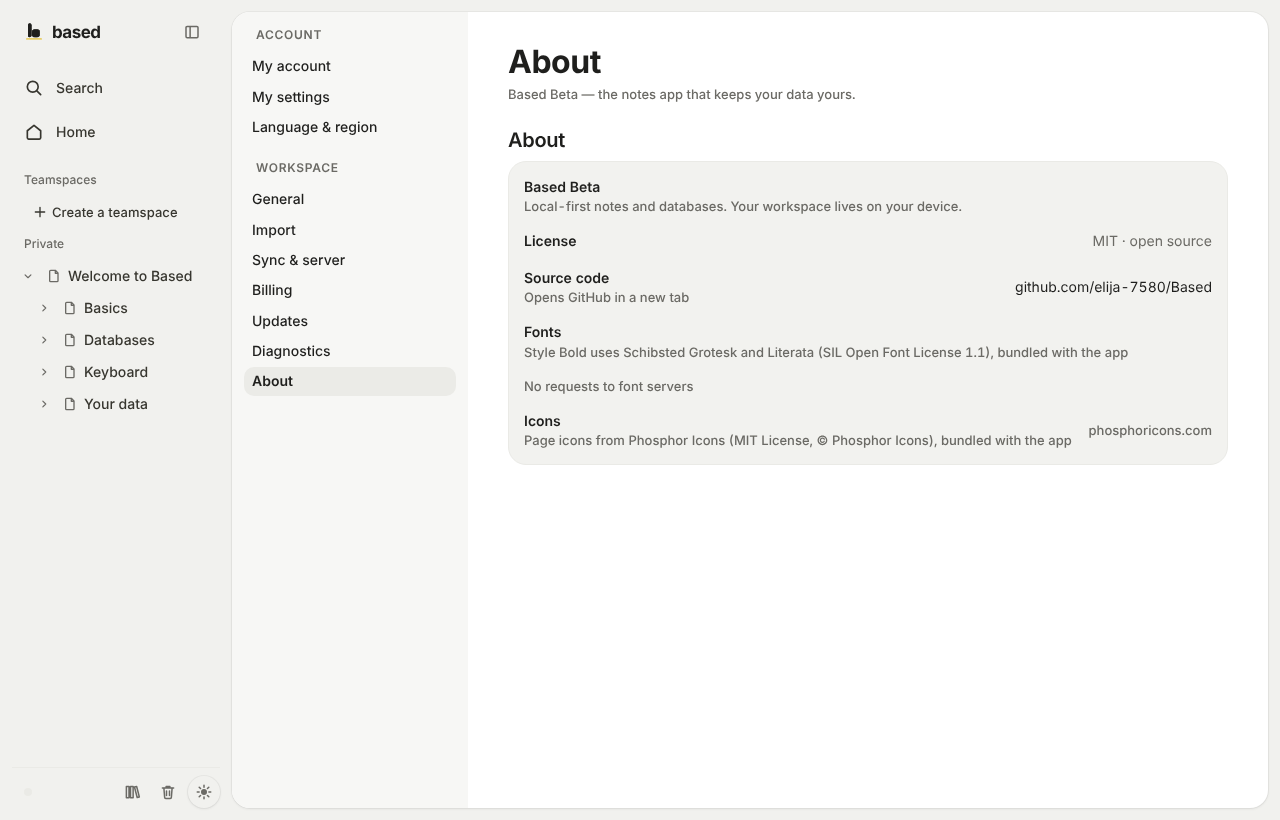
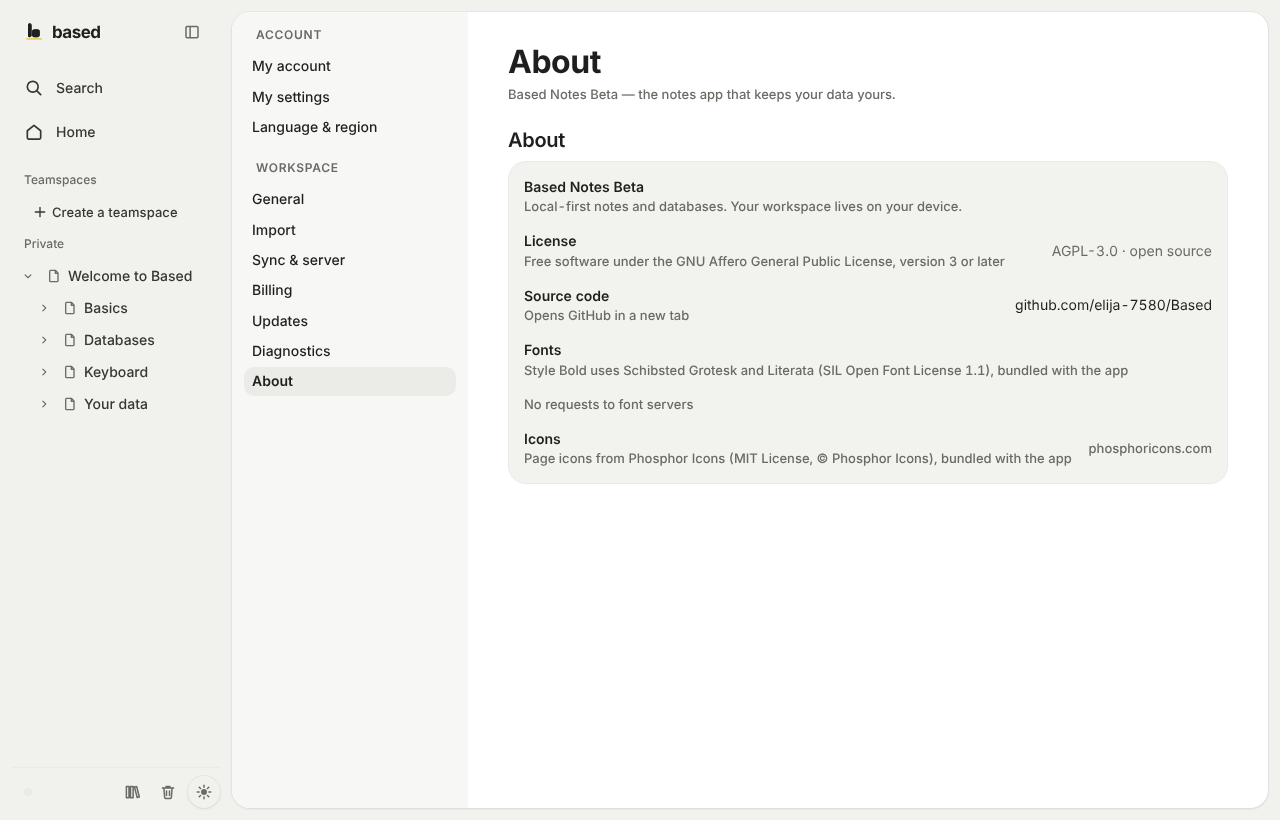
BSD-514: App heißt Based Notes – Beta-App, DMG und Über-Seite zeigen „Based Notes Beta“
Nur sichtbare Namen; Kennungen bleiben, damit Tester Daten und Updates behalten:
- tauri.beta.conf.json: productName und Fenstertitel „Based Notes Beta“. Bundle-ID, Updater-Endpunkt
  (beta-latest/latest.json) unverändert.
- apps/web/src/shell/beta.ts: APP_NAME/productName() → „Based Notes Beta“ (Über-Seite, Problem-melden-Mail);
  neue Seitenfenster nehmen productName() statt fest „Based Next“.
- ci/github-actions-desktop-beta.yml (Vorlage, .github/ unberührt): APP_NAME, DMG Based-Notes-Beta.dmg, Update-Paket
  Based-Notes-Beta.app.tar.gz, Titel; die DMG geht zusätzlich als Based-Beta.dmg nach beta-latest (alte Links).
- Nicht geändert: appName in packages/core/src/desktop-channel.ts – Kennung (Owner in der Discovery-Datei für
  replaceStaleLocal, Kennzeichen des CLI-Starters); umbenannt hielte die neue App ihren alten Server für fremd und
  based-beta ließe sich nicht neu installieren. Ports, Ordner (Based Beta Backups, iCloud „Based Beta“), based-beta.
- Website-Download und README: Texte „Based Notes Beta“, Link bleibt auf beta-latest/Based-Beta.dmg (den gibt es
  schon; Based-Notes-Beta.dmg erst nach dem ersten Lauf des neuen Workflows).
- docs/beta/README.md und RELEASE_NOTES.md (Zeile im Update-Dialog), Tests: config.test.mjs, beta.test.ts,
  site.test.mjs, beta-build.spec.ts (dazu „New board“ im ⌘N-Menü, auf beta seit be879bf0 – Spec war dort rot).
Prüfung: run-ts --fast grün; beta-build.spec (BASED_CHANNEL=beta) Chromium + WebKit grün; Fotos About hell/dunkel.
[…]

diff --git a/apps/web/e2e/beta-build.spec.ts b/apps/web/e2e/beta-build.spec.ts
@@ -102,9 +102,9 @@ for (const theme of ["light", "dark"] as const) {
       await expect(page.getByTestId("settings-section-start-page")).toContainText("Welcome to Based");
       await clean(page, "My settings");
       await shoot(page, "settings");
-      // BSD-485: About heißt „Based Beta“, ohne Agenten
+      // BSD-485/514: About heißt „Based Notes Beta“, ohne Agenten
       await nav.getByRole("button", { name: "About", exact: true }).click();
-      await expect(settings).toContainText("Based Beta — the notes app that keeps your data yours.");
+      await expect(settings).toContainText("Based Notes Beta — the notes app that keeps your data yours.");
       await expect(settings).not.toContainText(/Based Next|agent/i);
       await clean(page, "About");
       await shoot(page, "settings-about");
@@ -119,7 +119,7 @@ for (const theme of ["light", "dark"] as const) {
       await clean(page, "Diagnostics");
       await shoot(page, "settings-diagnostics");
 
-      // Library ohne Graph, mit Meetings; ⌘N mit Meeting notes, ohne AI-Chat, mit den Vorlagen
+      // Library ohne Graph, mit Meetings; ⌘N mit Meeting notes und Board (seit be879bf0 auf beta), ohne AI-Chat, mit den Vorlagen
       await page.goto("/#library");
       await expect(page.getByRole("heading", { name: "Library" })).toBeVisible();
       await expect(page.getByText(/^Loading/)).toHaveCount(0, { timeout: 15_000 });
@@ -129,7 +129,7 @@ for (const theme of ["light", "dark"] as const) {
       await shoot(page, "library");
       await page.keyboard.press("ControlOrMeta+n");
       const palette = page.getByTestId("new-palette");
-      await expect(palette.getByRole("option")).toHaveText([/New page/, /meeting notes/i, /New database/, /Import/, /Tasks template/, /Notes template/, /Journal template/, /Wiki template/]);
+      await expect(palette.getByRole("option")).toHaveText([/New page/, /meeting notes/i, /New database/, /Import/, /New board/, /Tasks template/, /Notes template/, /Journal template/, /Wiki template/]);
       await page.keyboard.type("tasks");
       await page.keyboard.press("Enter");
       await expect(page.locator(".shell-database.full")).toBeVisible();
@@ -142,7 +142,7 @@ for (const theme of ["light", "dark"] as const) {
 }
 
 // BSD-467: ⇧⌘B → Speichern → der Dialog nennt hello@basednotes.app und der Knopf „Email report“ öffnet eine Mail mit
-// „Based Beta“ und Kanal beta – ohne Seiteninhalt und ohne die Notiz.
+// „Based Notes Beta“ (BSD-514) und Kanal beta – ohne Seiteninhalt und ohne die Notiz.
 test("Beta-Build: Problem melden führt zur Mail an hello@basednotes.app", async ({ playwright, browserName, baseURL }) => {
   test.setTimeout(90_000);
   const { page, close } = await fresh(playwright, browserName, baseURL!, "light");
@@ -161,7 +161,7 @@ test("Beta-Build: Problem melden führt zur Mail an hello@basednotes.app", async
     await expect(box).toContainText("Send it to hello@basednotes.app");
     await expect(box.getByRole("button", { name: "Email report" })).toBeVisible();
     const text = decodeURIComponent((await box.getAttribute("data-mailto"))!);
-    expect(text.startsWith("mailto:hello@basednotes.app?subject=Based Beta ")).toBe(true);
+    expect(text.startsWith("mailto:hello@basednotes.app?subject=Based Notes Beta ")).toBe(true);
     expect(text).toContain("Channel: beta");
     for (const leak of ["Secret beta page text", "My private note"]) expect(text).not.toContain(leak);
     await clean(page, "Report saved");

diff --git a/apps/website/public/download/index.html b/apps/website/public/download/index.html
@@ -4,9 +4,9 @@
 <meta charset="utf-8">
 <meta name="viewport" content="width=device-width, initial-scale=1">
 <title>Download the Based Notes beta for Mac</title>
-<meta name="description" content="Download Based Beta for macOS, install it and send feedback.">
+<meta name="description" content="Download Based Notes Beta for macOS, install it and send feedback.">
 <meta property="og:title" content="Download the Based Notes beta for Mac">
-<meta property="og:description" content="Download Based Beta for macOS, install it and send feedback.">
+<meta property="og:description" content="Download Based Notes Beta for macOS, install it and send feedback.">
 <meta name="robots" content="noindex">
 <link rel="canonical" href="https://basednotes.app/download">
 <meta name="color-scheme" content="light">
@@ -41,16 +41,16 @@
 </nav>
 </header>
 <main class="legal wrap">
-<h1>Download the Based beta</h1>
+<h1>Download the Based Notes beta</h1>
 <p class="note">Thanks for testing Based. This is an early version: keep a copy of anything you can't afford to lose, and tell us what breaks.</p>
 
-<p><a class="btn" href="https://github.com/elija-7580/Based/releases/download/beta-latest/Based-Beta.dmg">Download Based Beta for Mac</a></p>
+<p><a class="btn" href="https://github.com/elija-7580/Based/releases/download/beta-latest/Based-Beta.dmg">Download Based Notes Beta for Mac</a></p>
 <p class="meta">macOS 13 or later · free during the beta · updates itself</p>
 
 <h2>Install</h2>
 <ul>
-<li>Open <strong>Based-Beta.dmg</strong> and drag <strong>Based Beta</strong> into Applications.</li>
-<li>Open Based Beta from Applications. If macOS asks before the first start, right-click the app, choose <strong>Open</strong> and confirm.</li>
+<li>Open the downloaded disk image (.dmg) and drag <strong>Based Notes Beta</strong> into Applications.</li>
+<li>Open Based Notes Beta from Applications. If macOS asks before the first start, right-click the app, choose <strong>Open</strong> and confirm.</li>
 <li>No account needed. Import from Notion on the welcome screen, or start empty.</li>
 </ul>
 

diff --git a/apps/web/src/desktop.ts b/apps/web/src/desktop.ts
@@ -6,7 +6,7 @@
 // Speicher: unverändert SQLite-WASM auf OPFS im Worker (siehe docs/desktop.md, „Speicher“).
 
 import { checkReleasesFallback, isMissingUpdateManifest, releaseLine } from "./shell/updateFallback.js";
-import { CHANNEL } from "./shell/beta.js";
+import { CHANNEL, productName } from "./shell/beta.js";
 import { autoUpdatePref } from "./shell/storage.js";
 import { closeTabAction } from "./shell/closeTab.js";
 import { askUser, showMessage } from "./shell/prompts.js";
@@ -34,7 +34,7 @@ export function applyDesktopShell(root: HTMLElement = document.documentElement) 
 
 let checking = false;
 
-/** Name und Version dieser App, wie sie im Bundle stehen („Based Next“ 0.1.155, „Based Beta“ 0.2.3). */
+/** Name und Version dieser App, wie sie im Bundle stehen („Based Next“ 0.1.155, „Based Notes Beta“ 0.2.5). */
 export interface AppIdentity { name: string; version: string }
 let identity: Promise<AppIdentity> | undefined;
 export function appIdentity(): Promise<AppIdentity> {
@@ -206,7 +206,7 @@ export async function openPageWindow(hash: string, title: string): Promise<void>
   const [{ WebviewWindow }, { LogicalPosition }] = await Promise.all([import("@tauri-apps/api/webviewWindow"), import("@tauri-apps/api/dpi")]);
   const label = "page-" + Date.now().toString(36) + Math.random().toString(36).slice(2, 6);
   new WebviewWindow(label, {
-    url, title: title || "Based Next", width: 1000, height: 760, minWidth: 600, minHeight: 400,
+    url, title: title || productName(), width: 1000, height: 760, minWidth: 600, minHeight: 400,
     titleBarStyle: "overlay", hiddenTitle: true, trafficLightPosition: new LogicalPosition(18, 22), dragDropEnabled: false,
   });
 }

diff --git a/apps/web/src/shell/beta.ts b/apps/web/src/shell/beta.ts
@@ -72,12 +72,16 @@ export function settingsPageVisible(id: string, channel: Channel = CHANNEL): boo
   return channel !== "beta" || !BETA_HIDDEN_SETTINGS.has(id);
 }
 
-/** Name der App im Kanal (Fenstertitel, Über-Seite, Problem melden). */
-export const APP_NAME = CHANNEL === "beta" ? "Based Beta" : "Based";
+/**
+ * Name der App im Kanal (Fenstertitel, Über-Seite, Problem melden). BSD-514: offizieller Name „Based Notes“, die
+ * Beta heißt sichtbar „Based Notes Beta“. Nur Anzeige – Kennungen (Bundle-ID, Ports, Discovery-Besitzer, Ordner,
+ * CLI `based-beta`) stehen in @based/core desktopPlaces und bleiben, damit Tester Daten und Updates behalten.
+ */
+export const APP_NAME = CHANNEL === "beta" ? "Based Notes Beta" : "Based";
 
-/** BSD-485: Produktname auf der Über-Seite – „Based Beta“ auf beta, sonst „Based Next“. */
+/** BSD-485/514: Produktname auf der Über-Seite – „Based Notes Beta“ auf beta, sonst „Based Next“. */
 export function productName(channel: Channel = CHANNEL): string {
-  return channel === "beta" ? "Based Beta" : "Based Next";
+  return channel === "beta" ? "Based Notes Beta" : "Based Next";
 }
 
 /** BSD-485: Kurzbeschreibung auf der Über-Seite – auf beta ohne Agenten (die gibt es dort nicht). */

diff --git a/apps/website/src/info/download.html b/apps/website/src/info/download.html
@@ -1,13 +1,13 @@
-<h1>Download the Based beta</h1>
+<h1>Download the Based Notes beta</h1>
 <p class="note">Thanks for testing Based. This is an early version: keep a copy of anything you can't afford to lose, and tell us what breaks.</p>
 
-<p><a class="btn" href="https://github.com/elija-7580/Based/releases/download/beta-latest/Based-Beta.dmg">Download Based Beta for Mac</a></p>
+<p><a class="btn" href="https://github.com/elija-7580/Based/releases/download/beta-latest/Based-Beta.dmg">Download Based Notes Beta for Mac</a></p>
 <p class="meta">macOS 13 or later · free during the beta · updates itself</p>
 
 <h2>Install</h2>
 <ul>
-<li>Open <strong>Based-Beta.dmg</strong> and drag <strong>Based Beta</strong> into Applications.</li>
-<li>Open Based Beta from Applications. If macOS asks before the first start, right-click the app, choose <strong>Open</strong> and confirm.</li>
+<li>Open the downloaded disk image (.dmg) and drag <strong>Based Notes Beta</strong> into Applications.</li>
+<li>Open Based Notes Beta from Applications. If macOS asks before the first start, right-click the app, choose <strong>Open</strong> and confirm.</li>
 <li>No account needed. Import from Notion on the welcome screen, or start empty.</li>
 </ul>
 

diff --git a/apps/web/src/shell/beta.test.ts b/apps/web/src/shell/beta.test.ts
@@ -127,8 +127,8 @@ describe("features.csv passt zum Beta-Gate", () => {
     for (const f of hidden) expect(rows.find((r) => r.feature === f)?.beta, f).not.toBe("beta");
   });
 
-  it("Über-Seite: beta heißt „Based Beta“ und nennt keine Agenten, dev bleibt „Based Next“ (BSD-485)", () => {
-    expect(productName("beta")).toBe("Based Beta");
+  it("Über-Seite: beta heißt „Based Notes Beta“ und nennt keine Agenten, dev bleibt „Based Next“ (BSD-485, BSD-514)", () => {
+    expect(productName("beta")).toBe("Based Notes Beta");
     expect(productBlurb("beta")).not.toMatch(/agent/i);
     expect(productName("dev")).toBe("Based Next");
     expect(productBlurb("dev")).toMatch(/agents/);

diff --git a/docs/beta/README.md b/docs/beta/README.md
@@ -1,17 +1,22 @@
-# Based Beta – guide for testers
+# Based Notes Beta – guide for testers
 
 Thanks for testing Based. Based is a workspace for pages and databases that keeps your data on your Mac.
 This beta is an early version: please keep a copy of anything you can't afford to lose, and tell us what breaks.
 
 ## Install
 
-1. Download **Based-Beta.dmg** from the link in your invitation.
-2. Open it and drag **Based Beta** into Applications.
-3. Open Based Beta from Applications.
+1. Download the disk image (**Based-Notes-Beta.dmg**, older links give **Based-Beta.dmg** – same app) from the
+   link in your invitation.
+2. Open it and drag **Based Notes Beta** into Applications.
+3. Open Based Notes Beta from Applications.
    - Until the app is signed by Apple, macOS asks before the first start: right-click the app → **Open** → **Open**.
 
-Based Beta needs macOS 13 or later and runs on Apple Silicon and Intel Macs. It installs next to other Based versions
+Based Notes Beta needs macOS 13 or later and runs on Apple Silicon and Intel Macs. It installs next to other Based versions
 and keeps its own data.
+
+Until 18 November 2026 the app was called **Based Beta**. If you installed it then, it updates itself and keeps your
+workspace, backups and settings; in Finder it may keep the old name `Based Beta.app`. Folders and the command line
+tool keep their names (`Based Beta Backups`, iCloud folder `Based Beta`, `based-beta`).
 
 ## First start
 
@@ -57,9 +62,9 @@ Other imports (Markdown, HTML, CSV, Obsidian, Evernote, Word, OPML) are in **Set
 - Either way, export anything important now and then (**•••** page menu → Export, or Settings → Import & export).
   For a complete copy choose **Export workspace… → Based archive**: it keeps everything and imports back as it
   was. HTML is for reading – imported again, databases come back as tables.
-- Based Beta and Based Next can be installed side by side. Each keeps its own workspace, local server (Beta: port
+- Based Notes Beta and Based Next can be installed side by side. Each keeps its own workspace, local server (Beta: port
   47822), backups folder and iCloud folder (`Based Beta`); the command line tool of the Beta is `based-beta`.
-- Before it installs an update, Based Beta saves a copy of your whole workspace (a Based archive with all files;
+- Before it installs an update, Based Notes Beta saves a copy of your whole workspace (a Based archive with all files;
   above 300 MB of files only pages and databases, as `.based.jsonl` – the files stay in the app) in
   `~/Library/Application Support/com.friedrich-ulrich.based.beta/pre-update` and keeps the last three. If that copy
   can't be saved, the update isn't installed. To go back, import the archive in **Settings → Import & export**.
@@ -67,8 +72,8 @@ Other imports (Markdown, HTML, CSV, Obsidian, Evernote, Word, OPML) are in **Set
 
 ## Updates
 
-Based Beta checks for updates on its own and asks before installing. You can also use
-**Based Beta → Check for Updates…**. You can turn automatic checks off in **Settings → Updates**.
+Based Notes Beta checks for updates on its own and asks before installing. You can also use
+**Based Notes Beta → Check for Updates…**. You can turn automatic checks off in **Settings → Updates**.
 
 ## Feedback and problems
 

diff --git a/docs/beta/RELEASE_NOTES.md b/docs/beta/RELEASE_NOTES.md
@@ -1,4 +1,4 @@
-# Based Beta – release notes
+# Based Notes Beta – release notes
 
 The build workflow puts the **top section** into the update dialog and the release. Keep it short: at most 8 lines,
 one line per point (no wrapped lines), each at most 110 characters – a test checks this
@@ -6,6 +6,7 @@ one line per point (no wrapped lines), each at most 110 characters – a test ch
 
 ## 0.2 – release candidate
 
+- Based Beta is now called Based Notes Beta; your workspace, backups and settings stay as they are
 - Meeting notes: type /meet to record, take timestamped notes and get a transcript made on your Mac
 - Start from a template: Tasks, Notes, Journal or Wiki
 - Video and audio blocks with their own controls
@@ -18,6 +19,8 @@ one line per point (no wrapped lines), each at most 110 characters – a test ch
 
 New since the first test build (0.2.2):
 
+- The app is now called **Based Notes Beta** (Based Notes is the official name). Bundle, data folder, backups
+  (`Based Beta Backups`), iCloud folder (`Based Beta`) and the `based-beta` command keep their names.
 - Meeting notes: type `/meet` to record a meeting, take notes with timestamps and get a transcript made on your Mac.
   Turn it on from the welcome screen or in Settings → Meeting notes (downloads a speech model once, 488 MB).
 - Start from a template on the welcome screen: Tasks, Notes, Journal or Wiki. **⌘N** offers them later, too.

diff --git a/README.md b/README.md
@@ -30,9 +30,9 @@ It's open source, built in Austria by one person and a night shift of agents, an
 
 <picture>
   <source media="(prefers-color-scheme: dark)" srcset="docs/readme/app-board-dark.png">
-  <img alt="Based Beta on the Mac: the Tasks database as a board" src="docs/readme/app-board-light.png">
+  <img alt="Based Notes Beta on the Mac: the Tasks database as a board" src="docs/readme/app-board-light.png">
 </picture>
-<p align="center"><sub>Based Beta on the Mac. A database as a board, pages in the sidebar.</sub></p>
+<p align="center"><sub>Based Notes Beta on the Mac. A database as a board, pages in the sidebar.</sub></p>
 
 ## Why Based
 
@@ -75,7 +75,7 @@ AI is off by default and the beta ships without it. Based is a complete workspac
 
 ## Download
 
-**Beta testers:** [Based-Beta.dmg](https://github.com/elija-7580/Based/releases/download/beta-latest/Based-Beta.dmg).
+**Beta testers:** [Based Notes Beta for Mac (DMG)](https://github.com/elija-7580/Based/releases/download/beta-latest/Based-Beta.dmg).
 Join the waitlist on [basednotes.app](https://basednotes.app) to get an invite. Tester guide: [`docs/beta/README.md`](docs/beta/README.md).
 
 **Development build:** [Based-Next.dmg](https://github.com/elija-7580/Based/releases/download/next-latest/Based-Next.dmg).
